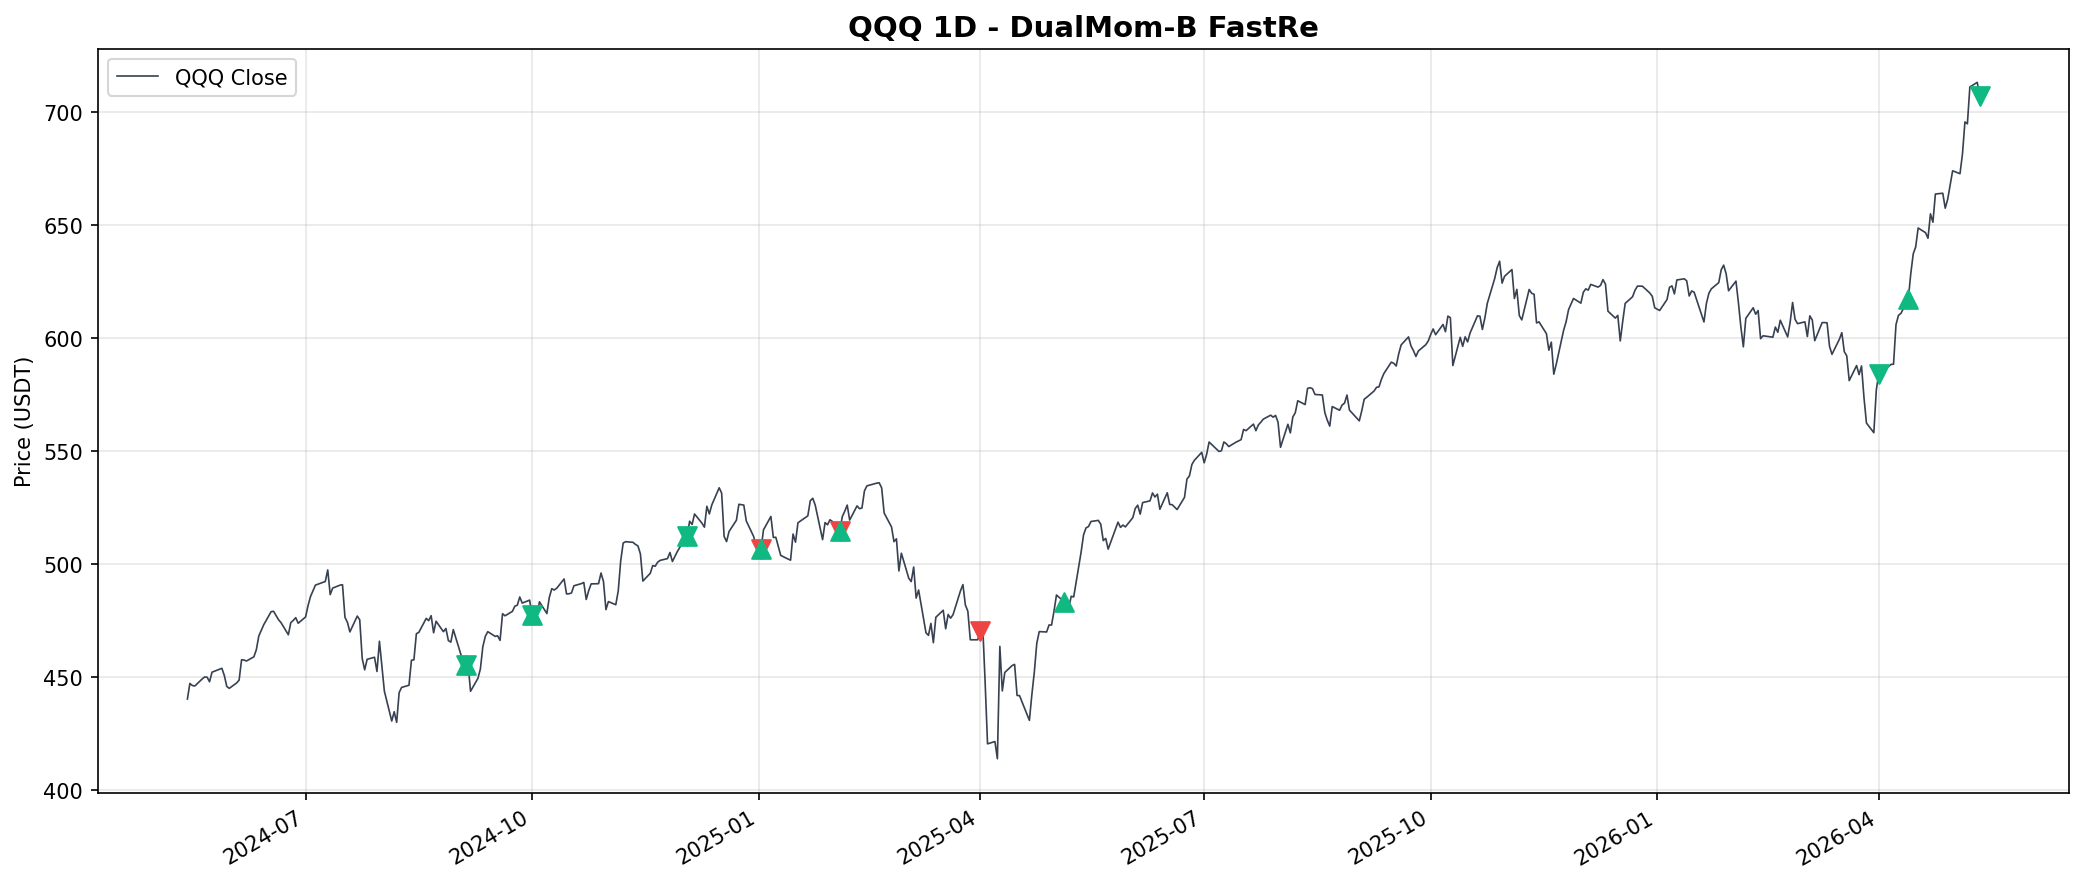
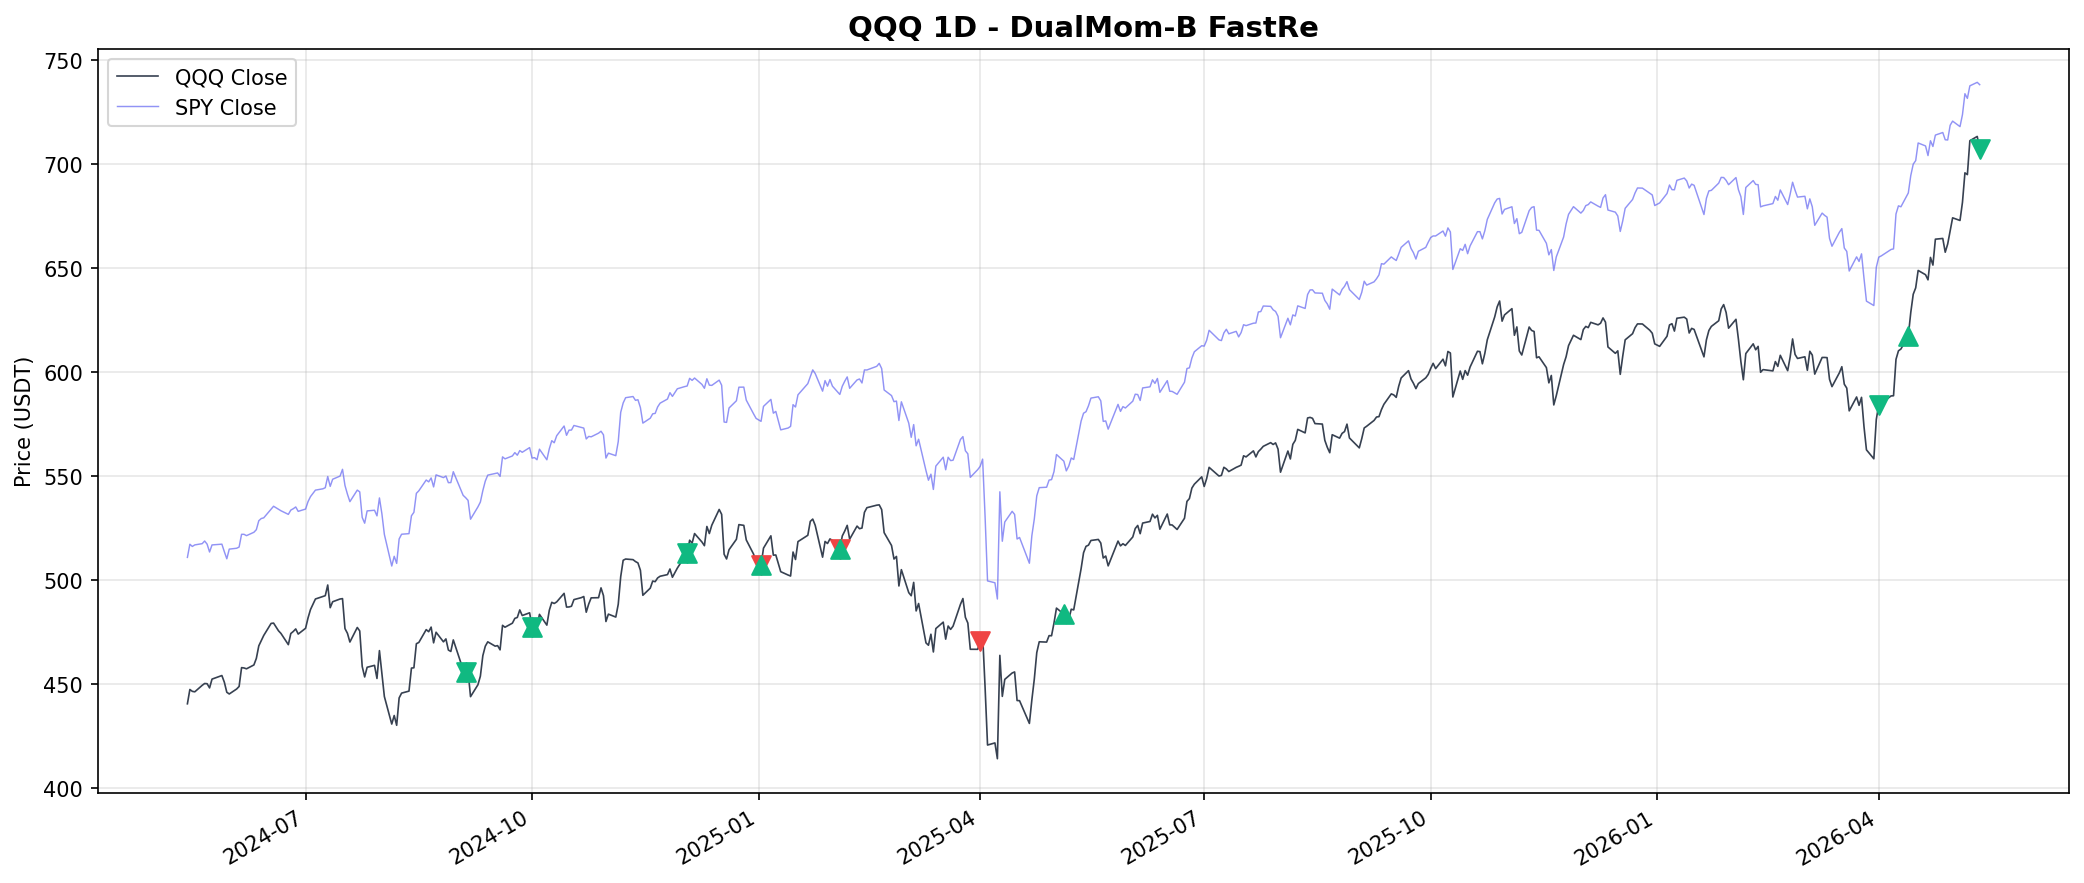
feat(charts): add secondary symbol overlay to price_ma chart
For multi-asset strategies with a secondary_symbol config (e.g. DualMom
QQQ/SPY), plot the secondary asset's close price as a lighter overlay line.
Only triggers when config.secondary_symbol is set, so single-asset strategies
are unaffected.

diff --git a/pipeline/report.py b/pipeline/report.py
@@ -200,6 +200,7 @@ def generate_price_ma_chart(
     trades: list,
     output_path: Path,
     last_n_bars: int = 500,
+    extra_series: dict[str, pd.DataFrame] | None = None,
 ) -> None:
     """Generate price chart with optional MA overlay and trade markers.
 
@@ -207,6 +208,8 @@ def generate_price_ma_chart(
         config: Strategy configuration (duck-typed).
             Required: timeframe, display_name, symbol.
             Optional: ma_window (if absent, MA overlay is skipped).
+        extra_series: Optional dict of {label: DataFrame} with 'timestamp' and 'close' columns
+            to plot as secondary lines.
     """
     output_path.parent.mkdir(parents=True, exist_ok=True)
 
@@ -226,6 +229,17 @@ def generate_price_ma_chart(
     ax.plot(df["timestamp"], df["close"], color="#374151", linewidth=0.8, label=f"{base_asset} Close")
     if ma_window is not None and "ma" in df.columns:
         ax.plot(df["timestamp"], df["ma"], color="#f59e0b", linewidth=1.2, label=f"MA{ma_window}")
+
+    # Plot extra series (e.g. SPY for multi-asset strategies)
+    extra_colors = ["#6366f1", "#ec4899", "#14b8a6"]
+    if extra_series:
+        for i, (label, edf) in enumerate(extra_series.items()):
+            edf_sorted = edf.copy().sort_values("timestamp")
+            mask = (edf_sorted["timestamp"] >= df.iloc[0]["timestamp"]) & (edf_sorted["timestamp"] <= df.iloc[-1]["timestamp"])
+            edf_window = edf_sorted[mask]
+            if not edf_window.empty:
+                color = extra_colors[i % len(extra_colors)]
+                ax.plot(edf_window["timestamp"], edf_window["close"], color=color, linewidth=0.7, alpha=0.7, label=f"{label} Close")
 
     # Mark trades — snap markers to the chart's close price so they sit on the curve
     # (for multi-asset strategies, entry/exit prices may be a different asset)

diff --git a/core/runner.py b/core/runner.py
@@ -440,7 +440,16 @@ def _run_full_backtest(adapter):
         provenance=provenance,
     )
     generate_equity_chart(result, charts_dir / "equity.png", benchmark_prices=df_sorted[["timestamp", "close"]])
-    generate_price_ma_chart(df_backtest, config, result.trades, charts_dir / "price_ma.png")
+    # Build extra_series for multi-asset chart overlay (only secondary_symbol)
+    chart_extra_series = None
+    secondary_symbol = getattr(config, 'secondary_symbol', None)
+    if secondary_symbol and extra_data:
+        for key, edf in extra_data.items():
+            if key.upper() == secondary_symbol.upper() or key == secondary_symbol.lower():
+                if "timestamp" in edf.columns and "close" in edf.columns:
+                    chart_extra_series = {secondary_symbol: edf[["timestamp", "close"]]}
+                    break
+    generate_price_ma_chart(df_backtest, config, result.trades, charts_dir / "price_ma.png", extra_series=chart_extra_series)
     sync_public_charts(manifest.id, charts_dir)
 
     # 7. Export engine state for future daily-signal runs
